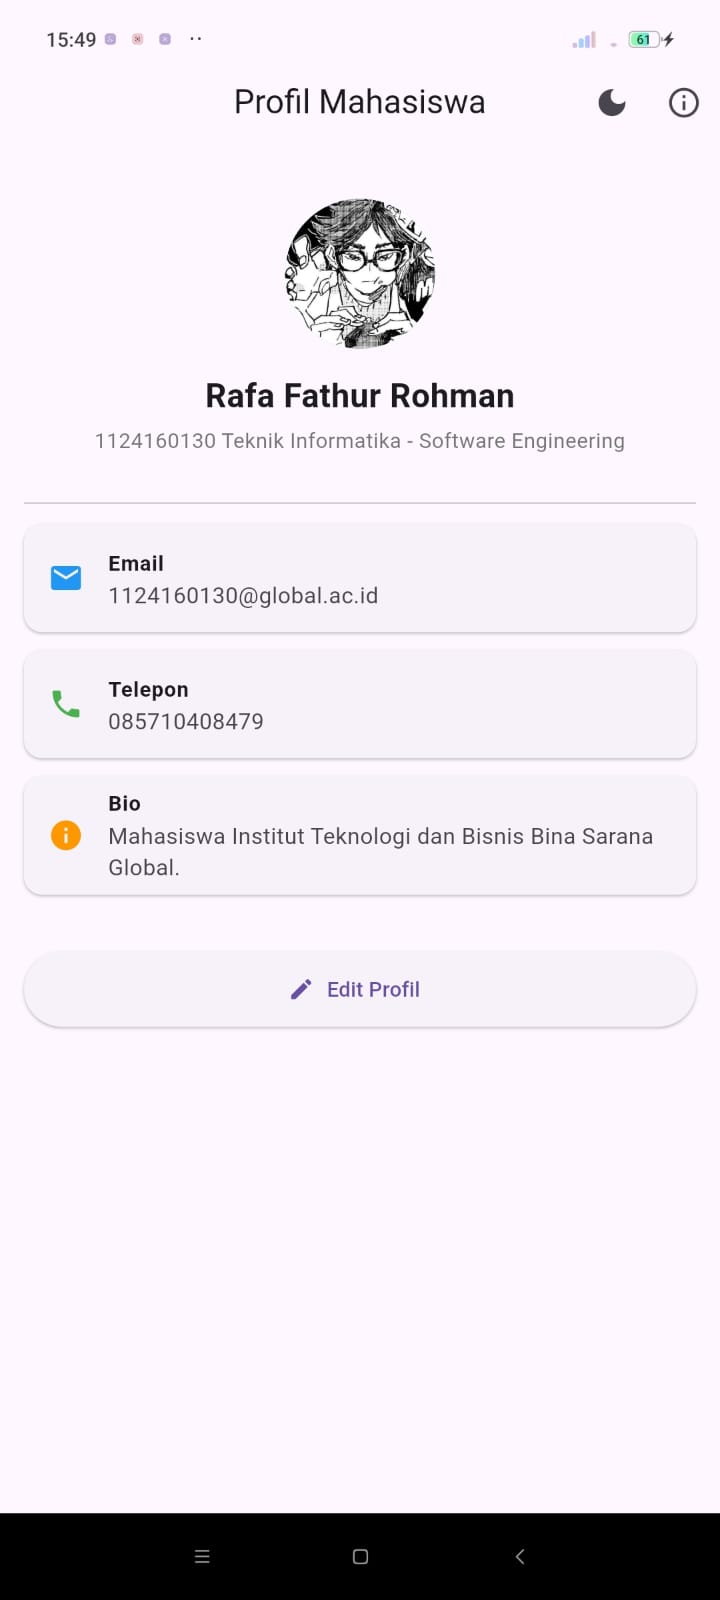
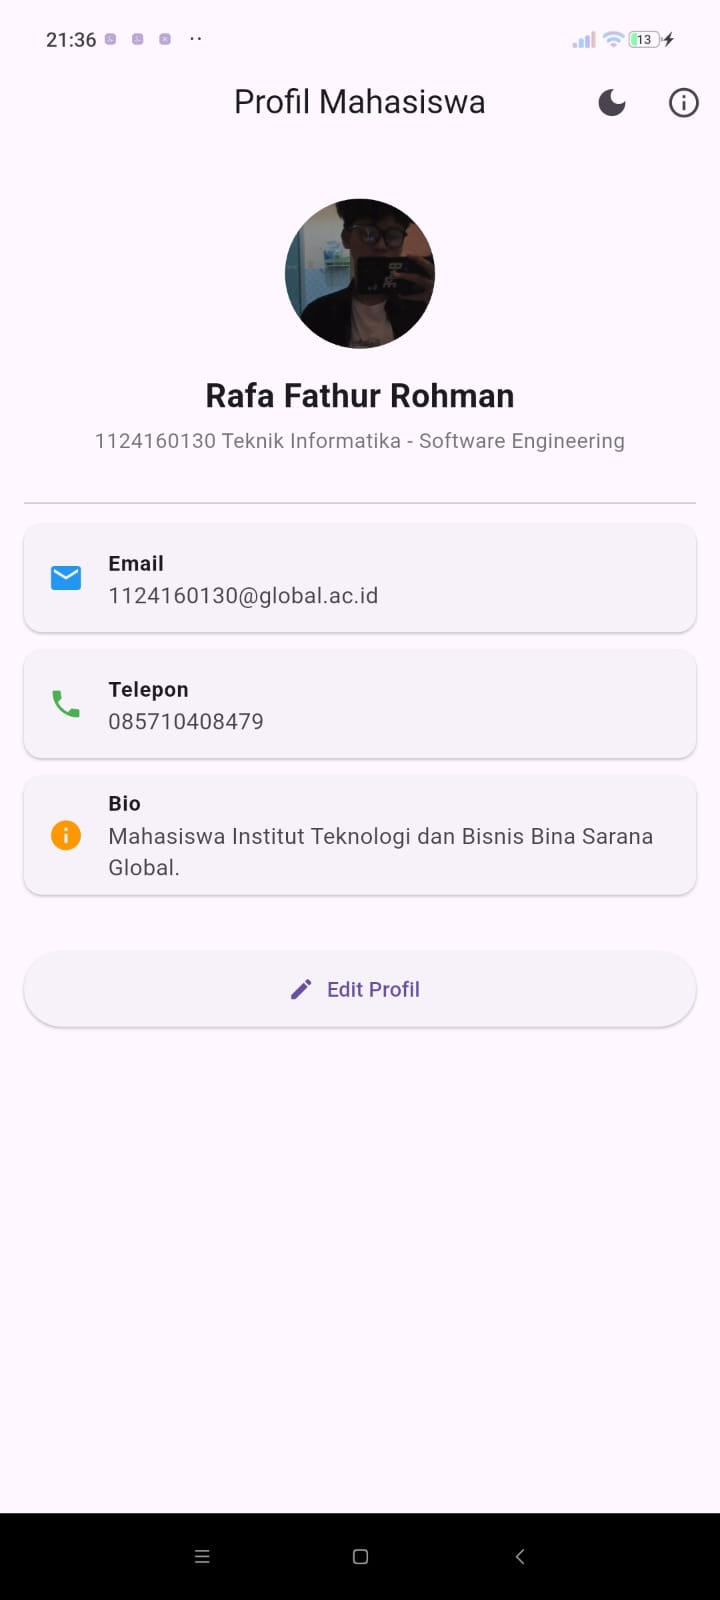
fix: profile,readme,assets,about,profile,pubspec

diff --git a/soal2-profil-app/lib/screens/profile_page.dart b/soal2-profil-app/lib/screens/profile_page.dart
@@ -26,7 +26,7 @@ class _ProfilePageState extends State<ProfilePage> {
     phone: "085710408479",
     major: "Teknik Informatika - Software Engineering",
     bio: "Mahasiswa Institut Teknologi dan Bisnis Bina Sarana Global.",
-    avatarUrl: "https://avatars.githubusercontent.com/u/200008369?s=400&u=213107af8f4e02427966636ce9898e1856bbe77b&v=4",
+    avatarUrl: "assets/images/profile.jpeg",
   );
 
   @override
@@ -61,7 +61,7 @@ class _ProfilePageState extends State<ProfilePage> {
             CircleAvatar(
               radius: 50,
               backgroundColor: Colors.blue.shade100,
-              backgroundImage: NetworkImage(userProfile.avatarUrl),
+              backgroundImage: AssetImage('assets/images/profile.jpeg') 
             ),
             const SizedBox(height: 16),
             Text(

diff --git a/soal2-profil-app/lib/screens/about_page.dart b/soal2-profil-app/lib/screens/about_page.dart
@@ -34,7 +34,6 @@ class AboutPage extends StatelessWidget {
             ),
             const SizedBox(height: 24),
             
-            // Kartu Riwayat Pendidikan, Keahlian & Hobi
             Card(
               elevation: 2,
               shape: RoundedRectangleBorder(borderRadius: BorderRadius.circular(12)),
